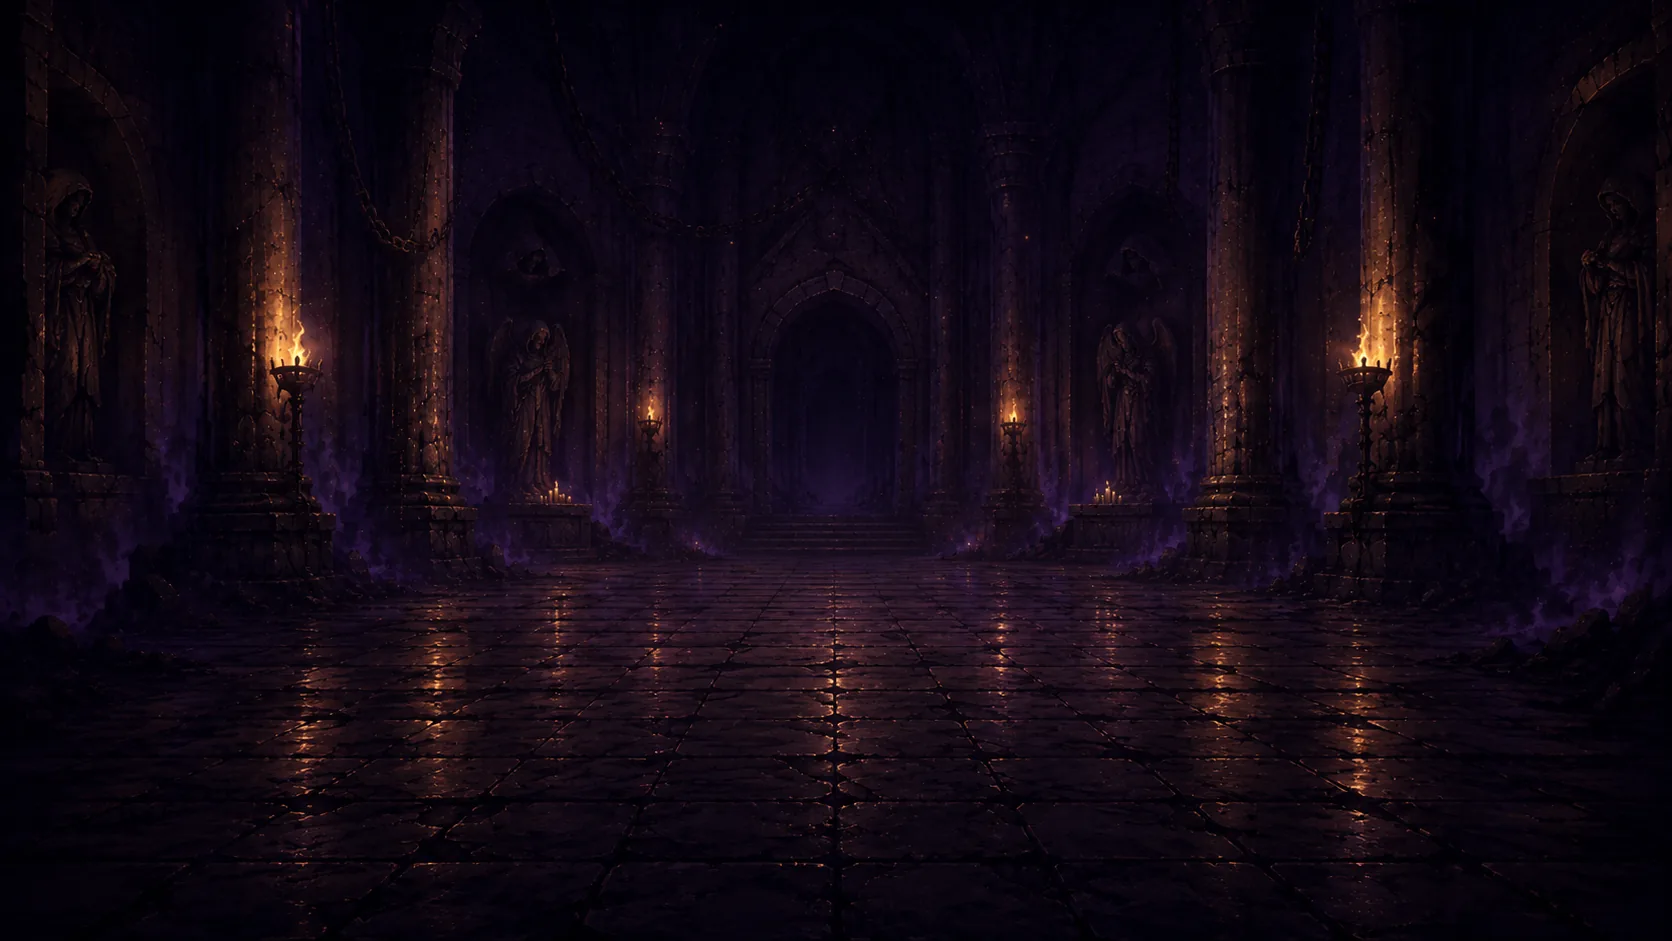
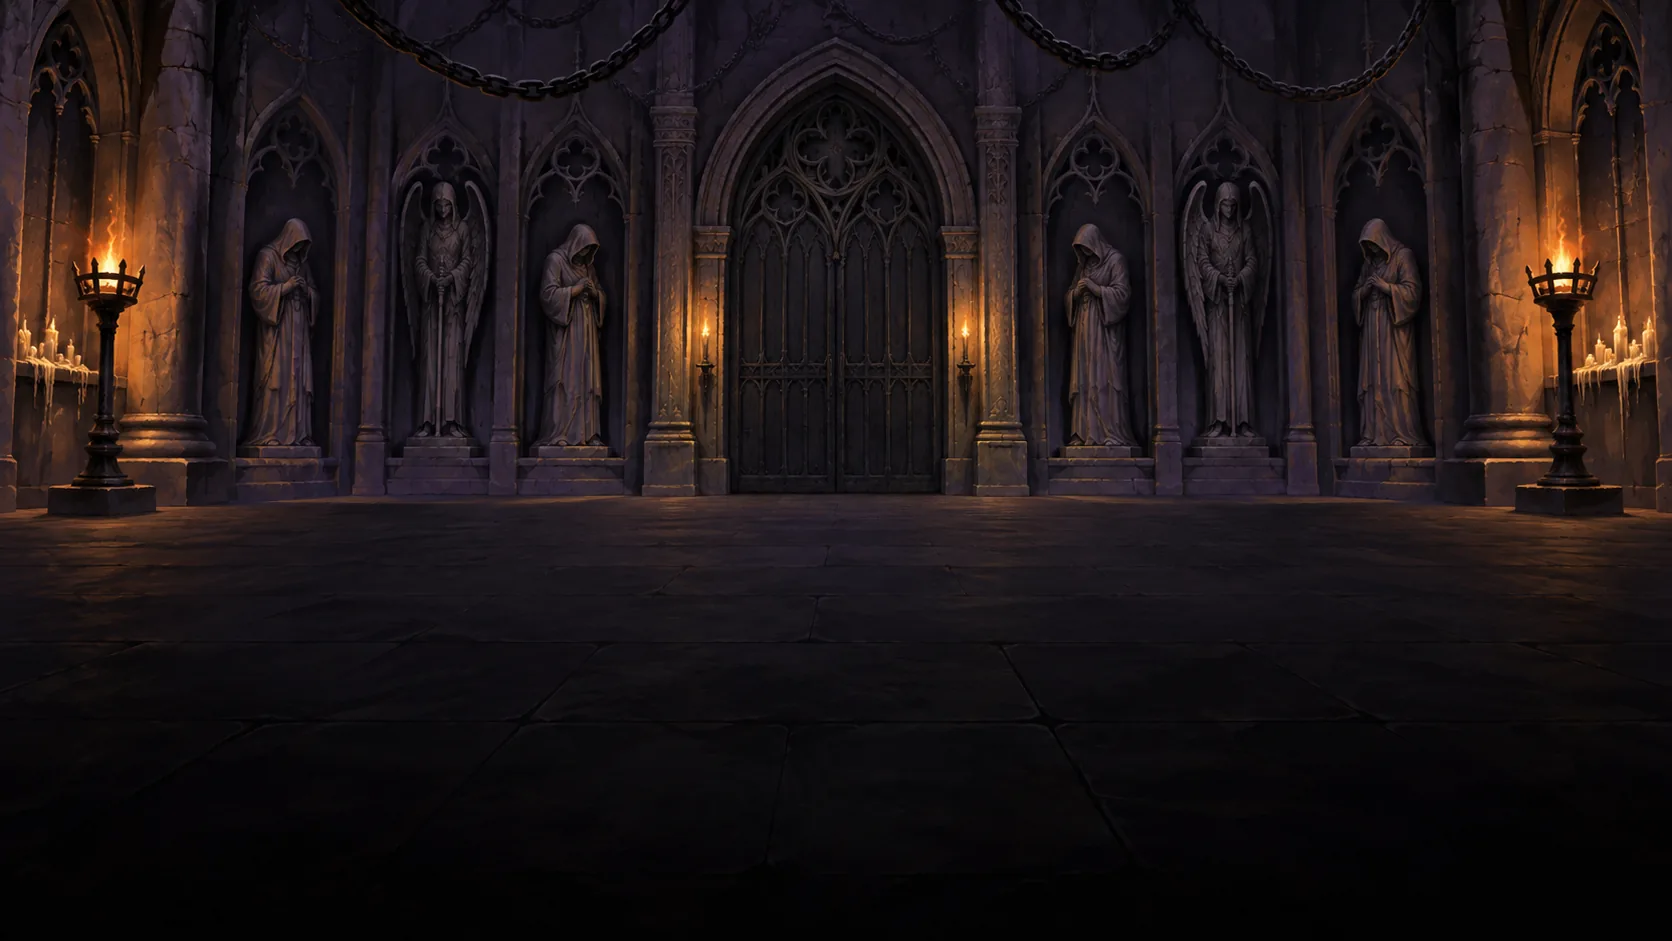
Act 1 volledig op de toneelstandaard (v124): de zuilenhal en de beeldengang hergenereerd (RONDE 3), GROND 68/64 -> 61; gemeten 0,0-0,1% op laptop en mobiel, 2D-suite 71 en 3D-suite 35 groen

diff --git a/js/art.js b/js/art.js
@@ -765,8 +765,8 @@ window.ACHTERGRONDEN = ACHTERGRONDEN;
    ============================================================ */
 const GROND = {
   /* --- Act 1 — De Kerker --- */
-  'Act 1 achtergronden/Gevechtstijl1act1.webp': { grond: 68 },                    /* tegelvloer begint pas op 68% */
-  'Act 1 achtergronden/Gevechtsijl2act1.webp': { grond: 64 },                     /* helling 57-72%, tredelijn 64 */
+  'Act 1 achtergronden/Gevechtstijl1act1.webp': { grond: 61 },                    /* v124: hergenereerd op de toneelstandaard (RONDE 3) */
+  'Act 1 achtergronden/Gevechtsijl2act1.webp': { grond: 61 },                     /* v124: hergenereerd op de toneelstandaard (RONDE 3), de trappartij is weg */
   'Act 1 achtergronden/Gevechtstijl3act1.webp': { grond: 61, midden: 59 },
   'Act 1 achtergronden/GevechtstijlEPISCHGEVECHTACT1.webp': { grond: 61 },         /* v123: hergenereerd op de toneelstandaard (RONDE 3) */
   'Act 1 achtergronden/GevechtstijlEPISCHGEVECHT2ACT1.webp': { grond: 61 },        /* v123: hergenereerd op de toneelstandaard (RONDE 3) */

diff --git a/sw.js b/sw.js
@@ -2,7 +2,7 @@
    Code (html/js/css): network-first — online krijg je altijd de nieuwste versie.
    Art (assets/): cache-first — afbeeldingen veranderen niet, dus herbezoeken
    laden vrijwel instant. Offline werkt alles vanuit de cache. */
-const CACHE = 'slayit-v123'; // v123: twee Act 1-gevechtsplaten (doornaltaar, gietzaal) hergenereerd op de toneelstandaard (RONDE 3, vloerrand 56%)
+const CACHE = 'slayit-v124'; // v124: Act 1 volledig op de toneelstandaard - de zuilenhal en de beeldengang hergenereerd (RONDE 3, vloerrand 56%)
 const BESTANDEN = [
   '.',
   'css/style.css',
